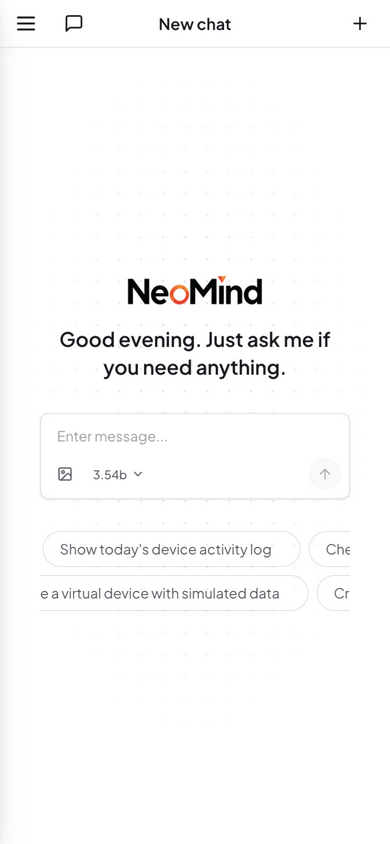
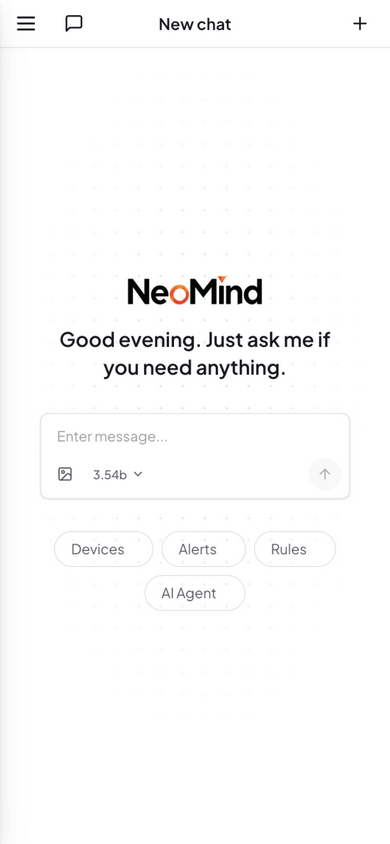
fix(web): mobile welcome chips — curated static 2-row set (replaces marquee)
Auto-scrolling marquee chips are moving tap targets, can't be paused
while reading, and duplicate the buttons for screen readers. Follow the
mainstream pattern instead: mobile shows 4 short-label chips (new
welcome.mobileSuggestions i18n keys) that send the full desktop prompts,
wrapping to exactly 2 tidy rows on 390px; sm+ keeps the full 8-chip
centered wrap. Marquee CSS removed; README mobile shot re-captured.

Changed region(s): [[0.0923, 0.6469, 0.8, 0.7085], [0.8615, 0.6469, 0.8923, 0.7085]]

diff --git a/web/src/components/chat/WelcomeArea.tsx b/web/src/components/chat/WelcomeArea.tsx
@@ -72,44 +72,33 @@ export function WelcomeArea({ className, onQuickAction, children }: WelcomeAreaP
         {children}
 
         {/* Prompt suggestions — quiet pill chips, self-explanatory: no
-            "try these questions" caption needed above them. Mobile: two
-            auto-scrolling rows (seamless marquee — the track carries two
-            copies of the row, chips stay tappable throughout the loop;
-            reduced-motion users get a swipeable row instead); sm+:
-            centered flex-wrap rows. */}
+            "try these questions" caption needed above them. Mobile shows a
+            curated short set: short labels (2 tidy rows on 390px) that send
+            the full desktop prompts; sm+ shows the full set, centered. */}
         {(() => {
-          const renderChip = (prompt: string, keyPrefix = "c") => (
+          const renderChip = (label: string, prompt: string) => (
             <button
-              key={`${keyPrefix}-${prompt}`}
+              key={label}
               onClick={() => onQuickAction?.(prompt)}
-              className="group inline-flex max-w-full shrink-0 items-center gap-1 whitespace-nowrap rounded-full border border-border bg-transparent px-4 h-9 text-sm text-muted-foreground transition-colors hover:bg-muted hover:text-foreground hover:border-muted-foreground/40"
+              className="group inline-flex max-w-full items-center gap-1 rounded-full border border-border bg-transparent px-4 h-9 text-sm text-muted-foreground transition-colors hover:bg-muted hover:text-foreground hover:border-muted-foreground/40"
             >
-              <span className="truncate">{prompt}</span>
+              <span className="truncate">{label}</span>
               <ArrowRight className="h-3.5 w-3.5 shrink-0 transition-all opacity-0 -ml-1.5 w-0 group-hover:opacity-100 group-hover:ml-0 group-hover:w-3.5" />
             </button>
           )
-          const renderMarqueeRow = (list: string[], rowId: string) => (
-            <div className="chips-marquee-viewport scrollbar-none">
-              <div className="chips-marquee flex w-max">
-                {/* Two copies per track; pr-2 matches the track gap so the
-                    -50% loop point is seamless (see .chips-marquee). */}
-                {[0, 1].map((copy) => (
-                  <div key={copy} className="flex flex-nowrap items-center gap-2 pr-2">
-                    {list.map((prompt) => renderChip(prompt, `${rowId}${copy}`))}
-                  </div>
-                ))}
-              </div>
-            </div>
-          )
-          const mid = Math.ceil(promptSuggestions.length / 2)
+          const mobileSuggestions = [
+            { label: t("welcome.mobileSuggestions.devices"), prompt: t("welcome.suggestionPrompts.checkDevices") },
+            { label: t("welcome.mobileSuggestions.alerts"), prompt: t("welcome.suggestionPrompts.checkAlerts") },
+            { label: t("welcome.mobileSuggestions.rules"), prompt: t("welcome.suggestionPrompts.createRule") },
+            { label: t("welcome.mobileSuggestions.agent"), prompt: t("welcome.suggestionPrompts.createAgent") },
+          ]
           return (
             <>
-              <div className="flex flex-col gap-2 sm:hidden">
-                {renderMarqueeRow(promptSuggestions.slice(0, mid), "r1")}
-                {renderMarqueeRow(promptSuggestions.slice(mid), "r2")}
+              <div className="flex flex-wrap items-center justify-center gap-2 sm:hidden">
+                {mobileSuggestions.map(({ label, prompt }) => renderChip(label, prompt))}
               </div>
               <div className="hidden flex-wrap items-center justify-center gap-2 sm:flex">
-                {promptSuggestions.map((prompt) => renderChip(prompt))}
+                {promptSuggestions.map((prompt) => renderChip(prompt, prompt))}
               </div>
             </>
           )

diff --git a/web/src/index.css b/web/src/index.css
@@ -895,31 +895,6 @@ html {
     display: none;
   }
 
-  /* Seamless horizontal marquee for the welcome-screen suggestion chips
-     (mobile). The track holds TWO identical copies of the chip row, each
-     with a trailing gap (pr-2) so the track width is exactly 2×(copy+gap)
-     and translateX(-50%) lands on a pixel-perfect loop point. */
-  @keyframes chips-marquee {
-    from { transform: translateX(0); }
-    to   { transform: translateX(-50%); }
-  }
-  .chips-marquee {
-    animation: chips-marquee 22s linear infinite;
-    will-change: transform;
-  }
-  .chips-marquee-viewport {
-    overflow: hidden;
-  }
-  @media (prefers-reduced-motion: reduce) {
-    .chips-marquee {
-      animation: none;
-    }
-    /* No animation → give the swipe-scroll fallback back */
-    .chips-marquee-viewport {
-      overflow-x: auto;
-    }
-  }
-
   /* Subtle dot-grid backdrop used by full-screen loading/switching screens.
      Replaces a duplicated inline `radial-gradient(circle, #80808015 ...)`
      in StartupLoading & InstanceSwitchOverlay. Uses a theme-aware muted
